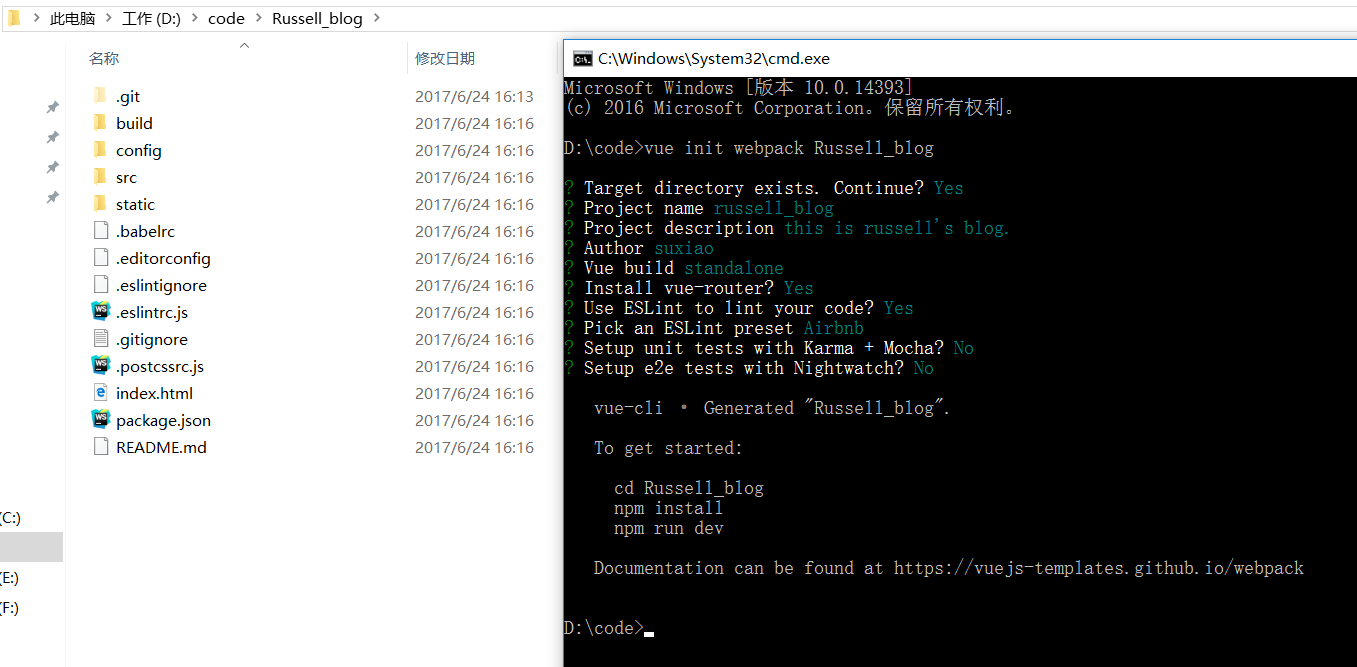
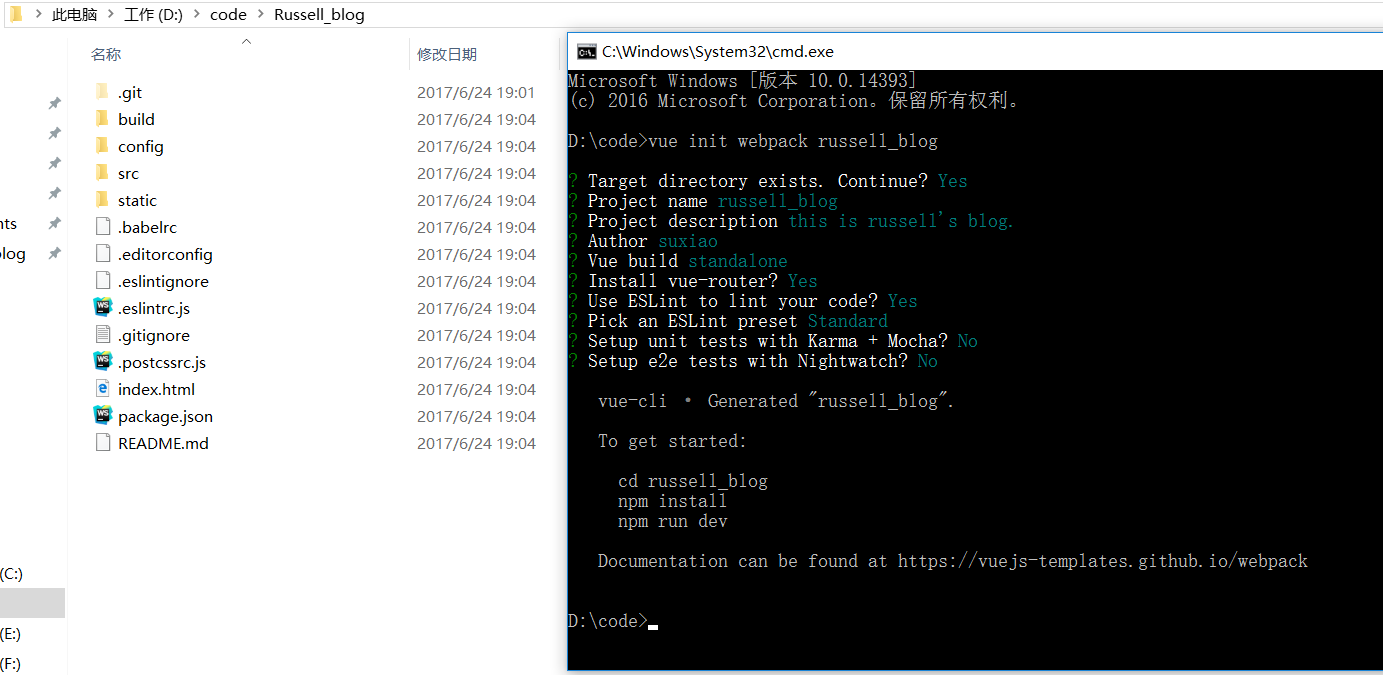
change eslint form airbnb to standard part2

diff --git a/src/App.vue b/src/App.vue
@@ -6,18 +6,18 @@
 </template>
 
 <script>
-export default {
-  name: 'app',
-};
+  export default {
+    name: 'app'
+  }
 </script>
 
 <style>
-#app {
-  font-family: 'Avenir', Helvetica, Arial, sans-serif;
-  -webkit-font-smoothing: antialiased;
-  -moz-osx-font-smoothing: grayscale;
-  text-align: center;
-  color: #2c3e50;
-  margin-top: 60px;
-}
+  #app {
+    font-family: 'Avenir', Helvetica, Arial, sans-serif;
+    -webkit-font-smoothing: antialiased;
+    -moz-osx-font-smoothing: grayscale;
+    text-align: center;
+    color: #2c3e50;
+    margin-top: 60px;
+  }
 </style>

diff --git a/src/main.js b/src/main.js
@@ -1,15 +1,15 @@
 // The Vue build version to load with the `import` command
 // (runtime-only or standalone) has been set in webpack.base.conf with an alias.
-import Vue from 'vue';
-import App from './App';
-import router from './router';
+import Vue from 'vue'
+import App from './App'
+import router from './router'
 
-Vue.config.productionTip = false;
+Vue.config.productionTip = false
 
 /* eslint-disable no-new */
 new Vue({
   el: '#app',
   router,
   template: '<App/>',
-  components: { App },
-});
+  components: { App }
+})

diff --git a/src/router/index.js b/src/router/index.js
@@ -1,15 +1,15 @@
-import Vue from 'vue';
-import Router from 'vue-router';
-import Hello from '@/components/Hello';
+import Vue from 'vue'
+import Router from 'vue-router'
+import Hello from '@/components/Hello'
 
-Vue.use(Router);
+Vue.use(Router)
 
 export default new Router({
   routes: [
     {
       path: '/',
       name: 'Hello',
-      component: Hello,
-    },
-  ],
-});
+      component: Hello
+    }
+  ]
+})

diff --git a/src/components/Hello.vue b/src/components/Hello.vue
@@ -23,12 +23,12 @@
 <script>
 export default {
   name: 'hello',
-  data() {
+  data () {
     return {
-      msg: 'Welcome to Your Vue.js App',
-    };
-  },
-};
+      msg: 'Welcome to Your Vue.js App'
+    }
+  }
+}
 </script>
 
 <!-- Add "scoped" attribute to limit CSS to this component only -->

diff --git a/.eslintrc.js b/.eslintrc.js
@@ -8,8 +8,6 @@ module.exports = {
   },
   env: {
     browser: true,
-    node: false,
-    mocha: false
   },
   // https://github.com/feross/standard/blob/master/RULES.md#javascript-standard-style
   extends: 'standard',
